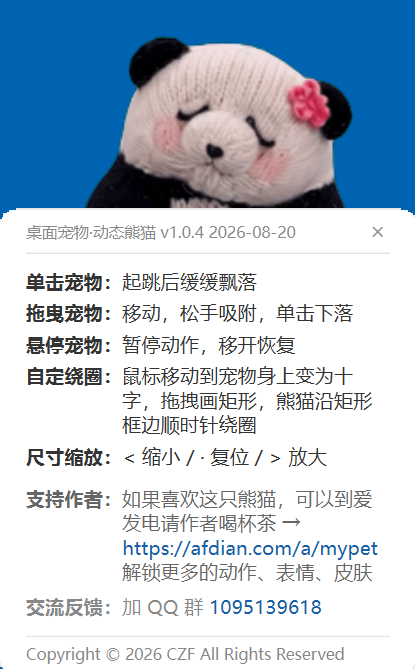
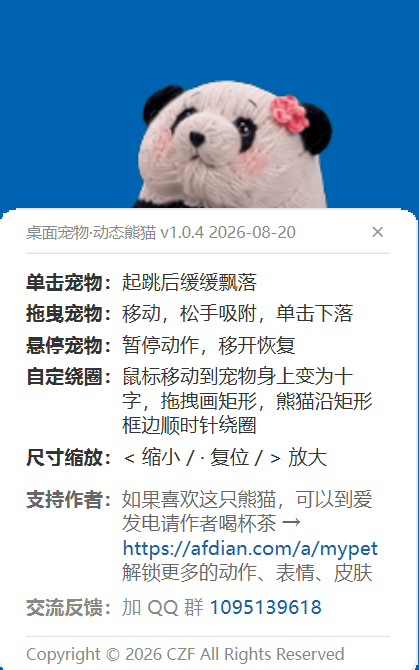
refactor: list页仿 jacobince/work 大图叠加标题+视频自动播放，panda换干净图，版本v5

diff --git a/assets/css/base.css b/assets/css/base.css
@@ -130,24 +130,22 @@ img, video { max-width: 100%; display: block; }
 }
 .btn-ghost:hover { background: var(--brand-soft); }
 
-/* ---------- 卡片栅格（仿 jacobince 极简平铺风） ---------- */
+/* ---------- 卡片栅格（仿 jacobince.com/work 大图平铺风） ---------- */
 .grid {
   display: grid;
-  grid-template-columns: repeat(auto-fill, minmax(280px, 1fr));
-  gap: 36px 28px;
+  grid-template-columns: repeat(auto-fill, minmax(340px, 1fr));
+  gap: 44px 32px;
 }
 .card {
   display: flex;
   flex-direction: column;
   background: transparent;
   border: none;
-  border-radius: 0;
   overflow: hidden;
-  transition: transform .22s ease;
 }
-.card:hover { transform: translateY(-4px); }
 .card .thumb {
-  aspect-ratio: 1 / 1;
+  position: relative;
+  aspect-ratio: 4 / 3;
   background: var(--surface-2);
   border-radius: var(--radius-sm);
   overflow: hidden;
@@ -157,23 +155,39 @@ img, video { max-width: 100%; display: block; }
   color: var(--ink-faint);
   font-size: 13px;
 }
-.card .thumb img { width: 100%; height: 100%; object-fit: cover; transition: transform .4s ease; }
-.card:hover .thumb img { transform: scale(1.04); }
-.card .body { padding: 12px 2px 0; display: flex; flex-direction: column; gap: 4px; }
-.card .cat {
-  align-self: flex-start;
-  font-size: 12px;
-  color: var(--brand-ink);
-  letter-spacing: 0.4px;
+.card .thumb img,
+.card .thumb video { width: 100%; height: 100%; object-fit: cover; transition: transform .55s cubic-bezier(.2,.7,.2,1); }
+.card:hover .thumb img,
+.card:hover .thumb video { transform: scale(1.05); }
+/* 标题叠加在图底部 */
+.card .overlay {
+  position: absolute;
+  left: 0; right: 0; bottom: 0;
+  padding: 28px 20px 16px;
+  background: linear-gradient(to top, rgba(20,20,18,0.62) 0%, rgba(20,20,18,0.0) 100%);
+  color: #fff;
+  pointer-events: none;
 }
-.card h3 { margin: 0; font-size: 16px; font-weight: 600; color: var(--ink); }
-.card p { margin: 0; color: var(--ink-soft); font-size: 13.5px; line-height: 1.5; }
+.card .overlay .cat {
+  font-size: 12px;
+  letter-spacing: 1px;
+  text-transform: uppercase;
+  color: rgba(255,255,255,0.82);
+}
+.card .overlay h3 {
+  margin: 4px 0 0;
+  font-size: 22px;
+  font-weight: 600;
+  letter-spacing: 0.3px;
+  color: #fff;
+  text-shadow: 0 1px 12px rgba(0,0,0,0.3);
+}
 .card .meta {
   display: flex;
   justify-content: space-between;
-  font-size: 12px;
+  font-size: 13px;
   color: var(--ink-faint);
-  padding-top: 6px;
+  padding: 12px 2px 0;
 }
 
 /* ---------- 标签筛选 ---------- */
@@ -226,7 +240,9 @@ img, video { max-width: 100%; display: block; }
   .nav { gap: 14px; font-size: 14px; }
   .section { padding: 40px 0; }
   .section-title { font-size: 20px; }
-  .grid { grid-template-columns: repeat(auto-fill, minmax(160px, 1fr)); gap: 14px; }
+  .grid { grid-template-columns: repeat(auto-fill, minmax(150px, 1fr)); gap: 20px 14px; }
+  .card .overlay { padding: 22px 12px 10px; }
+  .card .overlay h3 { font-size: 16px; }
 }
 
 /* ---------- 首页 hero ---------- */

diff --git a/assets/js/site.js b/assets/js/site.js
@@ -24,8 +24,12 @@ const SITE = {
     if (n >= 1000) return (n / 1000).toFixed(1) + 'k';
     return String(n);
   },
-  // 缩略图：优先图片，缺失时显示占位
+  // 缩略图：优先视频（自动播放），其次图片；缺失时显示占位
   thumbHTML(work) {
+    const vid = (work.media || []).find(m => m.type === 'video');
+    if (vid) {
+      return `<video src="${vid.src}" autoplay loop muted playsinline preload="metadata"></video>`;
+    }
     if (work.thumb) return `<img src="${work.thumb}" alt="${work.title}" loading="lazy">`;
     if (work.cover) return `<img src="${work.cover}" alt="${work.title}" loading="lazy">`;
     return '暂无预览';
@@ -33,14 +37,16 @@ const SITE = {
   cardHTML(work) {
     return `
     <a class="card" href="detail.html?id=${work.id}">
-      <div class="thumb">${SITE.thumbHTML(work)}</div>
-      <div class="body">
-        <span class="cat">${SITE.catName(work.category)}</span>
-        <h3>${work.title}</h3>
-        <div class="meta">
-          <span>${work.author}</span>
-          <span>⬇ <b class="stat" id="d-${work.id}">${SITE.fmt(work.downloads)}</b></span>
+      <div class="thumb">
+        ${SITE.thumbHTML(work)}
+        <div class="overlay">
+          <div class="cat">${SITE.catName(work.category)}</div>
+          <h3>${work.title}</h3>
         </div>
+      </div>
+      <div class="meta">
+        <span>${work.author}</span>
+        <span>⬇ <b class="stat" id="d-${work.id}">${SITE.fmt(work.downloads)}</b></span>
       </div>
     </a>`;
   }

diff --git a/index.html b/index.html
@@ -5,7 +5,7 @@
   <meta name="viewport" content="width=device-width, initial-scale=1.0">
   <title>DeskBud · 陪伴你的桌面宠物伙伴</title>
   <meta name="description" content="DeskBud.xyz —— 面向桌面宠物爱好者，汇集各类开源与自制桌面宠物伙伴作品，支持浏览、预览与下载。">
-  <link rel="stylesheet" href="assets/css/base.css?v=4">
+  <link rel="stylesheet" href="assets/css/base.css?v=5">
 </head>
 <body>
   <header class="topbar">
@@ -58,7 +58,7 @@
     </div>
   </footer>
 
-  <script src="assets/js/site.js?v=4"></script>
+  <script src="assets/js/site.js?v=5"></script>
   <script>
     (async () => {
       const d = await SITE.load();

diff --git a/list.html b/list.html
@@ -5,7 +5,7 @@
   <meta name="viewport" content="width=device-width, initial-scale=1.0">
   <title>作品列表 · DeskBud</title>
   <meta name="description" content="DeskBud 全部桌面宠物作品，支持分类筛选与排序（最新、下载量、热门）。">
-  <link rel="stylesheet" href="assets/css/base.css?v=4">
+  <link rel="stylesheet" href="assets/css/base.css?v=5">
 </head>
 <body>
   <header class="topbar">
@@ -47,7 +47,7 @@
     </div>
   </footer>
 
-  <script src="assets/js/site.js?v=4"></script>
+  <script src="assets/js/site.js?v=5"></script>
   <script>
     (async () => {
       const d = await SITE.load();

diff --git a/detail.html b/detail.html
@@ -5,7 +5,7 @@
   <meta name="viewport" content="width=device-width, initial-scale=1.0">
   <title>作品详情 · DeskBud</title>
   <meta name="description" content="桌面宠物作品详情：图文/GIF/视频预览与下载。">
-  <link rel="stylesheet" href="assets/css/base.css?v=4">
+  <link rel="stylesheet" href="assets/css/base.css?v=5">
 </head>
 <body>
   <header class="topbar">
@@ -31,7 +31,7 @@
     </div>
   </footer>
 
-  <script src="assets/js/site.js?v=4"></script>
+  <script src="assets/js/site.js?v=5"></script>
   <script>
     (async () => {
       const d = await SITE.load();
